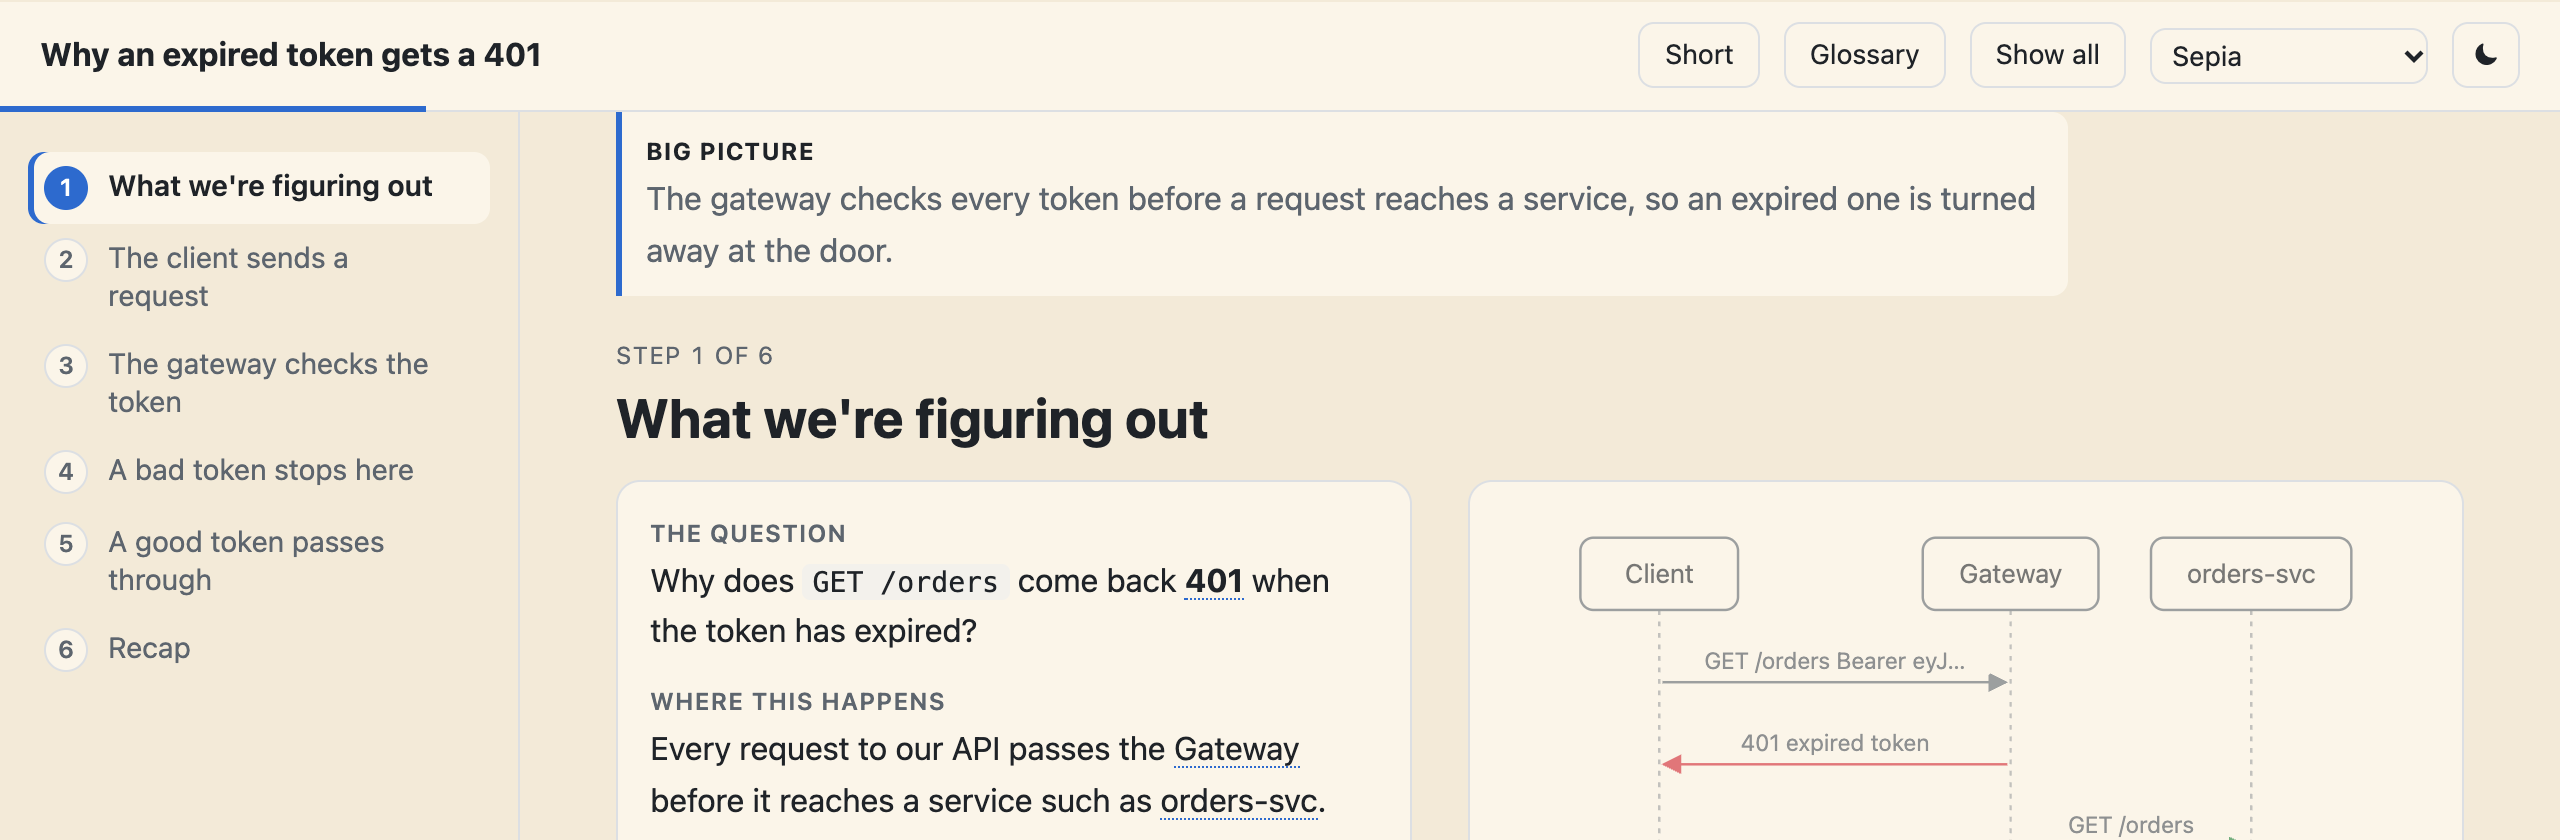
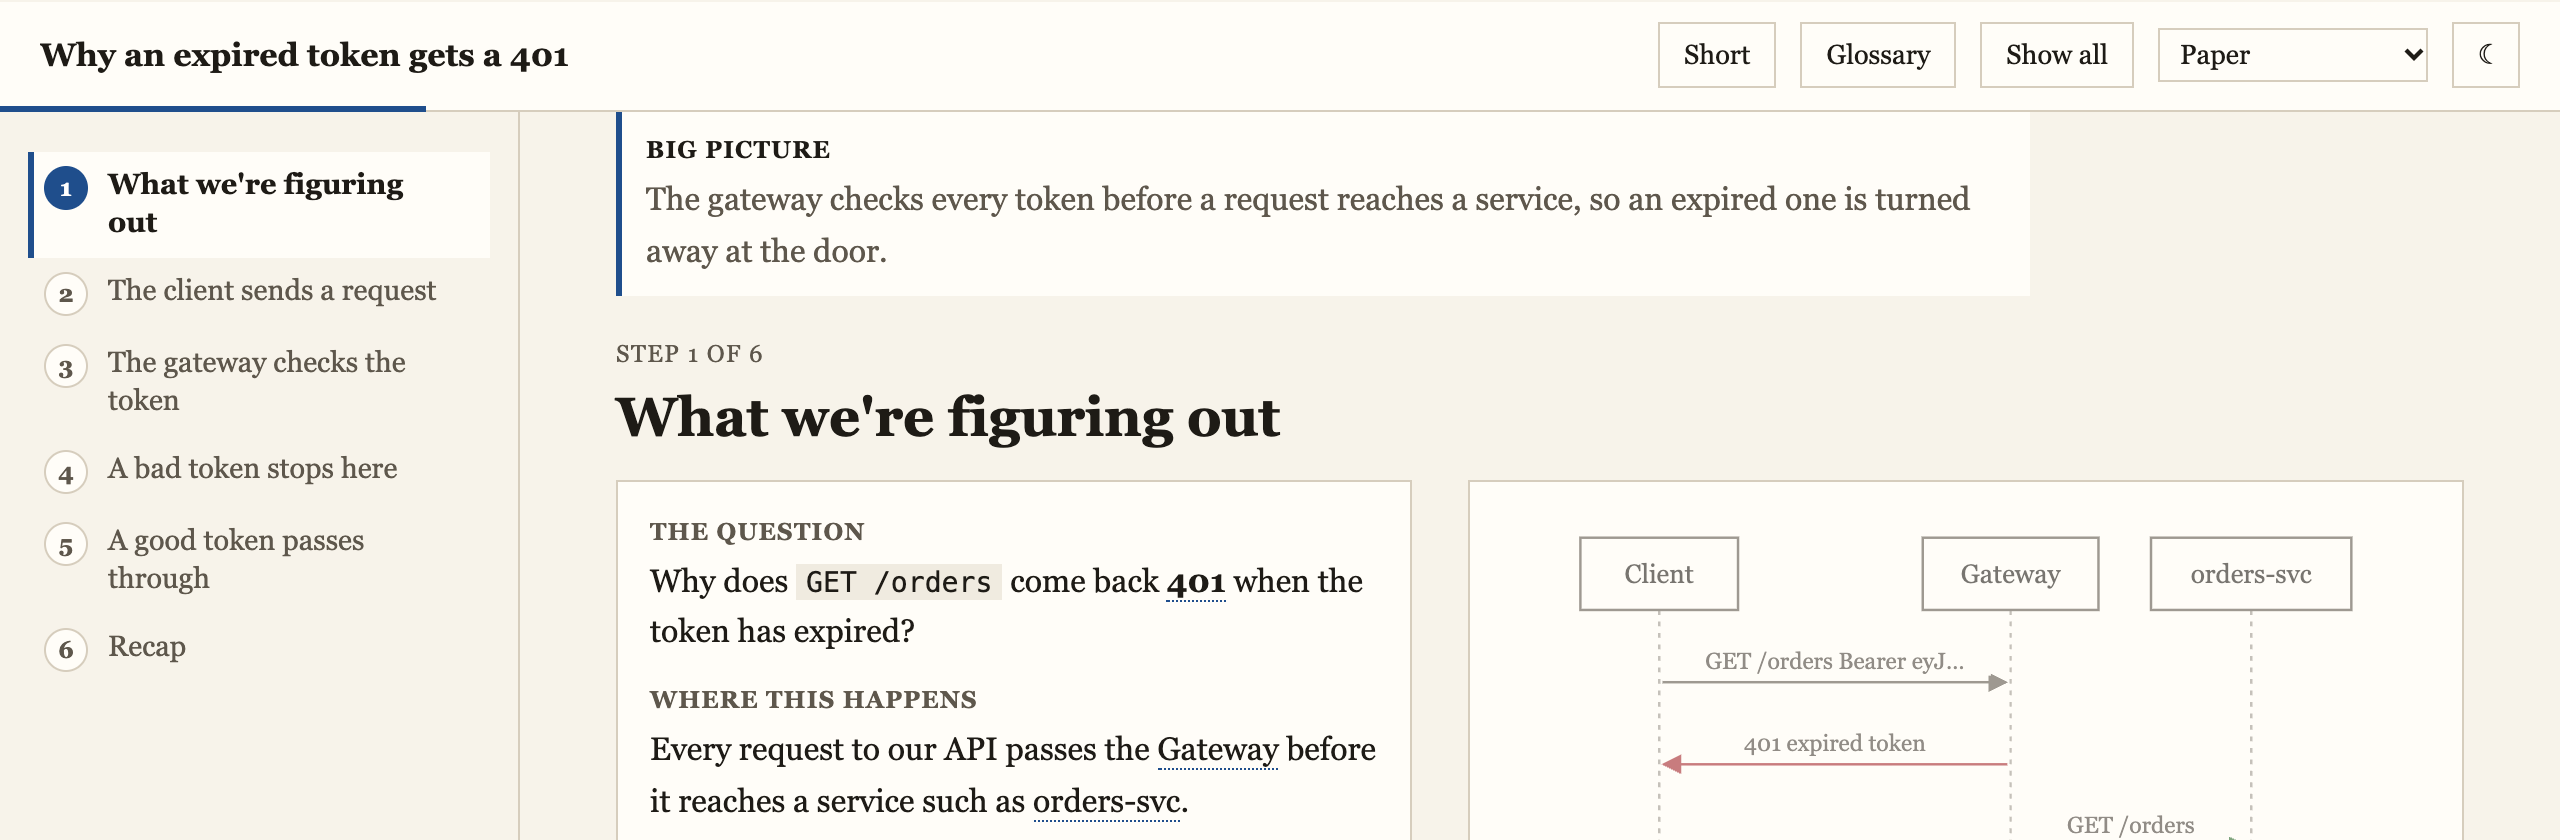
docs(explain-interactive): document palettes and shots.mjs --palette (#90)
The README feature line becomes "Palettes and light/dark", naming the six
palettes and saying the choice is remembered; the shots.mjs entry gains
--dark and --palette. SKILL.md and diagram-recipes.md say "the highlight
colour" instead of "orange", since the hue now depends on the palette, and
pages must work "in every palette, light and dark".

Re-takes the palette-picker screenshots with real palettes (Paper on
desktop, Terminal dark in the phone menu) in place of the test fixtures.

diff --git a/plugins/explain-interactive/README.md b/plugins/explain-interactive/README.md
@@ -68,7 +68,11 @@ Every page gets these from the engine, whatever its content:
   `aria-current` marks the current step; drawers are dialogs that take focus, return it on close,
   close on Esc and block ← / → while open; ← / → scroll a wide diagram instead of changing step;
   reduced motion is respected.
-- **Light and dark**: follows the system setting; the ☀ / ☾ button switches and is remembered.
+- **Palettes and light/dark**: a picker offers Default, High contrast, Colour-blind safe, Paper,
+  Terminal and Soft, each with a light and a dark version. Paper, Terminal and Soft also change
+  the font and the corners (serif and square, monospace and square, rounded). Light or dark
+  follows the system setting, and the ☀ / ☾ button switches it. Both choices are remembered
+  across pages, and the index page follows them.
   Diagrams scroll sideways on phones rather than shrinking to unreadable text.
 
 ## Install
@@ -89,7 +93,7 @@ On Claude Code older than 2.1.275, add the marketplace first:
 - `skills/explain-interactive/diagram-recipes.md`: how to declare the shared diagram and pick its layout
 - `skills/explain-interactive/engine/`: the page shell, styles and script shared by every page (`page.html`, `engine.css`, `engine.js`), and the diagram layouts the build runs (`layout.mjs`)
 - `skills/explain-interactive/build.mjs`: checks a content file, inlines it into the engine and writes one offline HTML file, plus the `index.html` next to it (Node 22+, no dependencies)
-- `skills/explain-interactive/shots.mjs`: renders every step of a page in headless Chrome to `step-NN.png` for review (plus `step-NN-<option>.png` per what-if option and `-phone` variants, never two with the same name), and reports what it can measure (a step taller than the screen, overflow, tiny diagram text, console errors, dialogs). With `-o` it only clears images it wrote there and refuses a folder holding other `step-*.png` files
+- `skills/explain-interactive/shots.mjs`: renders every step of a page in headless Chrome to `step-NN.png` for review (plus `step-NN-<option>.png` per what-if option and `-phone` variants, never two with the same name), and reports what it can measure (a step taller than the screen, overflow, tiny diagram text, console errors, dialogs). `--dark` shoots the dark version and `--palette <id>` shoots one palette (an id from `engine/palettes.mjs`, e.g. `--palette colour-blind`). With `-o` it only clears images it wrote there and refuses a folder holding other `step-*.png` files
 - `skills/explain-interactive/cdp.mjs`: the small DevTools-protocol driver `shots.mjs` and the tests use (finds Chrome, Chromium or Edge on macOS, Linux and Windows or on `PATH`; times out stuck calls and answers page dialogs)
 - `skills/explain-interactive/examples/`: one sample content file per page type (walkthrough, decision, before/after, debugging story, concept), and walkthroughs for each diagram layout, for what-if controls and for a wide diagram with quizzes (`dns-lookup`)
 - `evals/`: skill-behaviour eval cases for `claude plugin eval`, one per page type, with a recorded baseline (see `evals/README.md`)

diff --git a/plugins/explain-interactive/skills/explain-interactive/SKILL.md b/plugins/explain-interactive/skills/explain-interactive/SKILL.md
@@ -183,7 +183,7 @@ How to choose:
 - **One diagram, same positions in every step** (the `DIAGRAM` + `diagram.hl` mechanism):
   consistency beats novelty. Follow the rules in `diagram-recipes.md` (labelled edges, 1–3 parts
   per step, ≤ ~7 nodes, no sentences in boxes).
-- Colour carries one meaning: `<mark>` and `.hl` (orange) = the thing this step is about; key ideas
+- Colour carries one meaning: `<mark>` and `.hl` (the highlight colour) = the thing this step is about; key ideas
   are just **bold**.
 - Use the user's actual names (files, services, functions) from the conversation, not generic
   placeholders.
@@ -193,7 +193,7 @@ How to choose:
   builds it from each step's `title` + `summary` and adds the finish panel.
 - Keep each step to roughly one screen: body 2–5 sentences (≤ ~120 words), code ≤ 15 lines of ≤ 60
   characters, quiz 3–4 options. Edge cases go in `deeper`.
-- No external network resources (fonts, CDNs, images). Must work offline and in light/dark mode.
+- No external network resources (fonts, CDNs, images). Must work offline and in every palette, light and dark.
 - Accuracy over flourish: **add background context freely when it is verified** (from code you
   read, docs, or the conversation itself) because missing context is the most common reason an
   explanation can't be followed. Never invent it: if a fact the reader needs can't be verified,

diff --git a/plugins/explain-interactive/skills/explain-interactive/diagram-recipes.md b/plugins/explain-interactive/skills/explain-interactive/diagram-recipes.md
@@ -52,7 +52,7 @@ The build checks the spec. Unknown layouts, unknown or repeated ids, edges namin
 - **At most ~7 nodes.** Merge or drop details this explanation doesn't need. Keep a `layers` stack to 5 bands and a `sequence` to about 8 messages, or the picture gets too tall to read.
 - **No sentences inside boxes**: a name (≤ 3 words) per node. Prose belongs in `body`.
 - **Short edge labels** (≤ ~25 characters). The layout makes room for each label, so a long one stretches the whole diagram and shrinks its text.
-- **Colour means one thing:** orange `hl` = new in this step (and the `<mark>` in the text), red `bad` = rejected/failure, green `ok` = accepted/success, ghosted = not introduced yet.
+- **Colour means one thing:** the highlight colour `hl` = new in this step (and the `<mark>` in the text), red `bad` = rejected/failure, green `ok` = accepted/success, ghosted = not introduced yet.
 - `build` (staged reveal, ≤ 4 stages) is for sequences where the order of messages is the point.
 
 A diagram wider than 680 units would be too small beside the text, so the page shows its steps full width, with the text above and a quiz beside the diagram. A `sequence` grows wider with each column and a `chain` with each box. If the build says the diagram is wider than ~900 units, drop a node or shorten labels.
